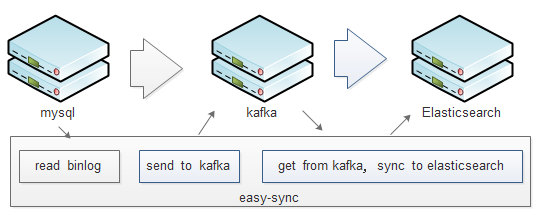
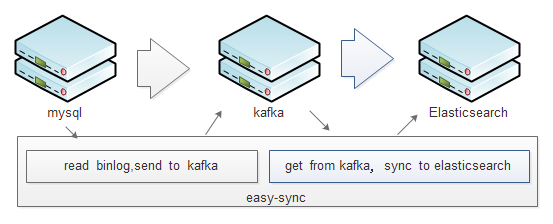
add manual

diff --git a/README.md b/README.md
@@ -8,8 +8,9 @@ Sync mysql to elasticsearch in real-time via binlog and kafka.
 ![demoͼ](docs/images/main.png)
 
 # How does it work?
-Binlog Task: Read binlog and send different tables' data to different kafka topics.  
-Elasticsearch Task: Each task read own kafka topic and write data to elasticsearch. 
+There two kinds of tasks. 
+Binlog Task- Read binlog and send different tables' data to different kafka topics.  
+Elasticsearch Task- Each task read own kafka topic and write data to elasticsearch. 
 
 ![system](docs/images/system.png)
 
